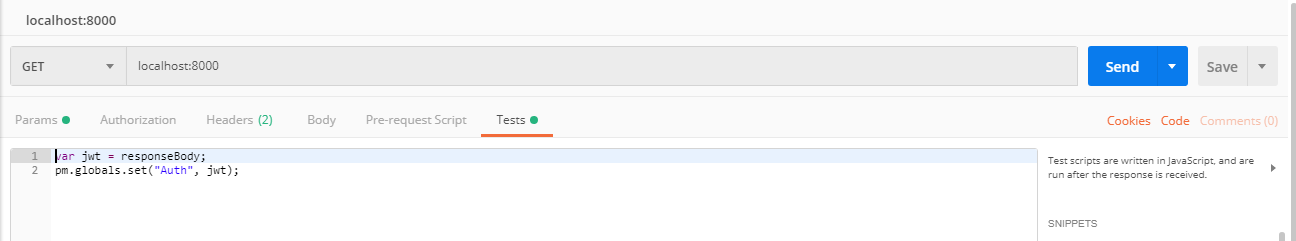
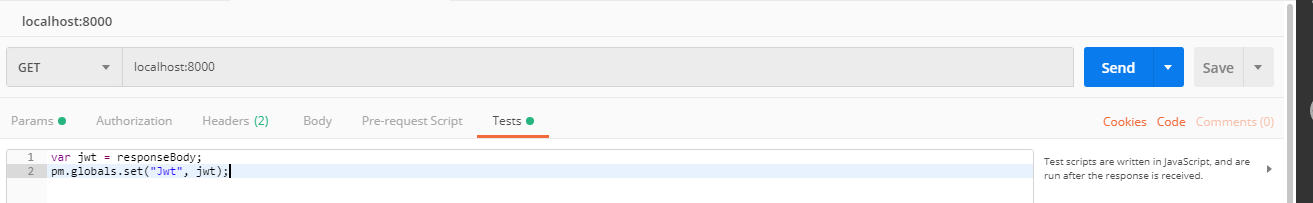
tiny fix

diff --git a/README.md b/README.md
@@ -34,7 +34,7 @@ Just like this:
 
 - Send the ``GET`` request to your request to ``localhost:8000``, you need to signed in manually, but it's a one time setup.
 
-- Your Postman now have a global variable ``{{Jwt}}`` with the refreshed JWT token, and from now on everytime you get a 401, just send the GET request to your local running node app to refresh your ``{{Jwt}}`` with one click with no copy and paste.
+- Your Postman now have a global variable ``{{Jwt}}``, the refreshed JWT token, and from now on everytime you get a 401, just send the GET request to your local running node app to refresh your ``{{Jwt}}`` with one click without copy and paste.
 
 
 <sup>The xhr-url-keyword header is the keyword in the XHR request URL sent out from the web page. So this node app is not just for Talent App, it can consume any web page and any XHR request keyword, and any header (default: ``Authorization``).</sup>
